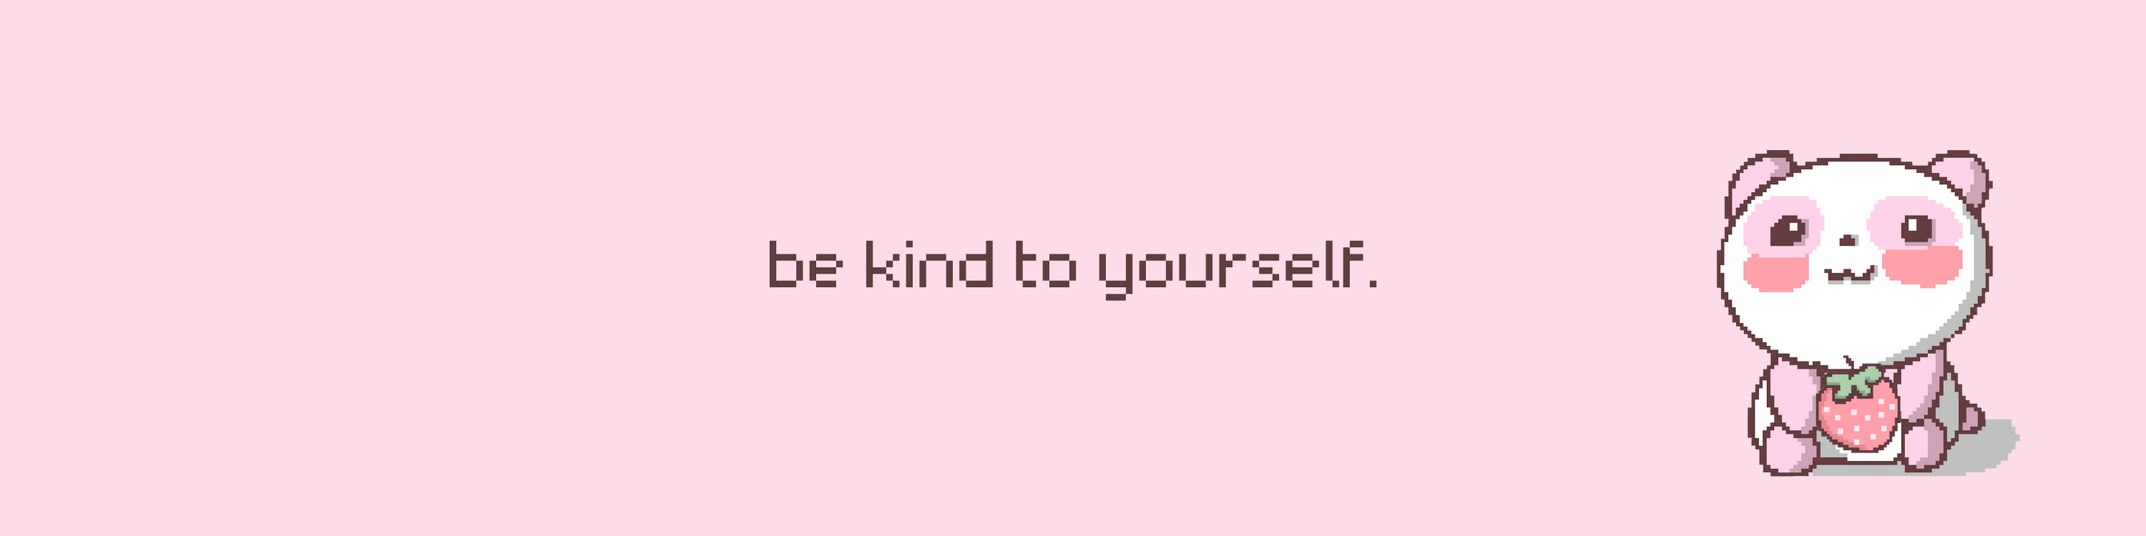
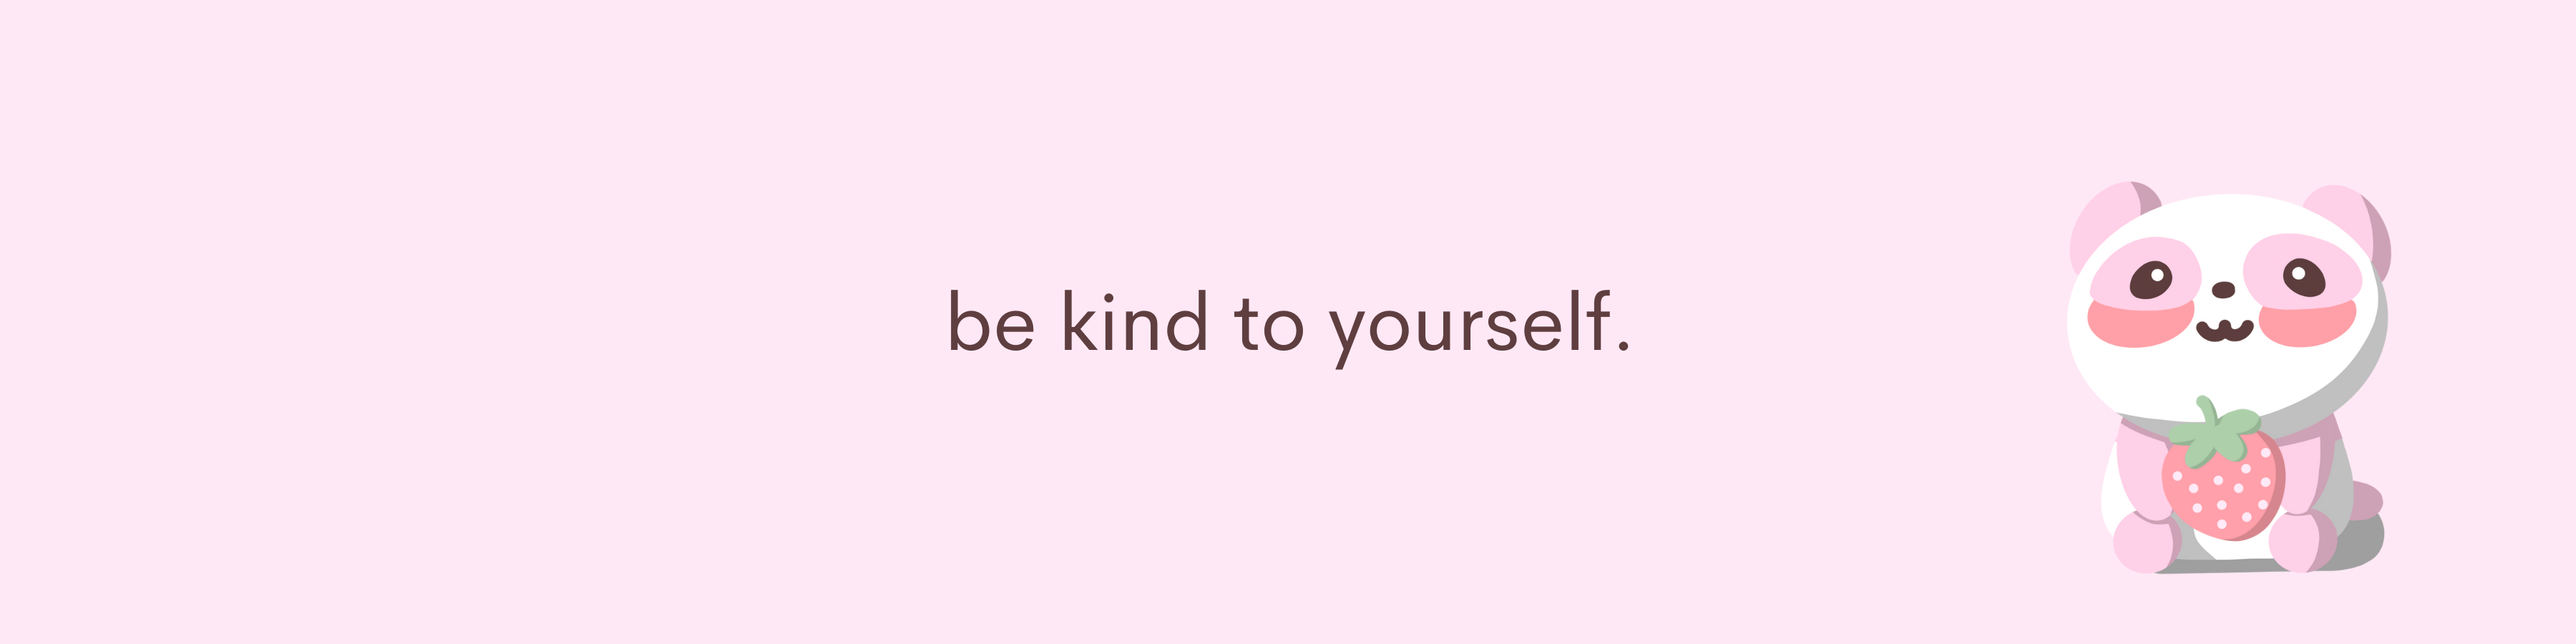
Reworking Design

Changed region(s): [[0.775, 0.276, 0.961, 0.8893], [0.341, 0.4293, 0.651, 0.5827]]

diff --git a/index.html b/index.html
@@ -13,6 +13,7 @@
     <link rel="stylesheet" href="https://cdnjs.cloudflare.com/ajax/libs/font-awesome/6.0.0/css/all.min.css"
         integrity="sha512-9usAa10IRO0HhonpyAIVpjrylPvoDwiPUiKdWk5t3PyolY1cOd4DSE0Ga+ri4AuTroPR5aQvXU9xC6qOPnzFeg=="
         crossorigin="anonymous" referrerpolicy="no-referrer" />
+    <link rel="stylesheet" href="stylesheet.css" type="text/css" charset="utf-8" />
     <meta name="msapplication-TileColor" content="#00aba9">
     <meta name="msapplication-config" content="assets/favicon/browserconfig.xml">
     <meta name="theme-color" content="#ffffff">
@@ -32,19 +33,21 @@
     <!-- this is the start of banner -->
 
     <div class="banner">
-        <div class="logo">
-            <a href="index.html"><img src="assets/strawbearilogo.png" alt="Strawberry Logo"> </a>
-        </div>
-        <div class="logo2">
-            <a href="index.html"><img src="assets/strawberryicon.png" alt="Strawberry Icon"> </a>
-        </div>
-
+        
         <picture>
             <source media="(min-width: 1000px)" srcset="assets/banner.png">
             <img src="assets/banner2.png" alt="Banner Small" />
         </picture>
 
     </div>
+    
+    <div class="logo">
+        <a href="index.html"><img src="assets/strawbearilogo.png" alt="Strawberry Logo"> </a>
+    </div>
+    <div class="logo2">
+        <a href="index.html"><img src="assets/strawberryicon.png" alt="Strawberry Icon"> </a>
+    </div>
+    
     <!-- this is the start of nav bar for mobile-->
     <div id="hiddennavbar">
         <a href="#" class="menubars" id="show-menu">
@@ -58,6 +61,7 @@
                 <a href="#" class="menubarshidden" id="hide-menu" onclick="hideMenu()">
                     <i class="fas fa-bars nav-icon"></i>
                 </a>
+                <img src="assets/strawbearilogo.png" alt="Strawberry Logo">
             </div>
             <div class="nav-section">
                 <a href="index.html"><i class="fa-solid fa-house nav-icon"></i>home</a>
@@ -72,7 +76,7 @@
     </nav>
 
     <!-- this is the start of nav bar -->
-    <nav class="nav_bar">
+    <!--<nav class="nav_bar">
         <a href="index.html"><span class="nav_sec">home</span></a>
         <span class="dropdown">
             <a href="aboutme.html"><span class="nav_sec" id="dropdown">about me &#x25BE;</span></a>
@@ -110,7 +114,7 @@
                 </a>
             </div>
         </span>
-    </nav>
+    </nav>!-->
 
 
     <div class="beginning">

diff --git a/style.css b/style.css
@@ -1,5 +1,18 @@
 @import url('https://fonts.googleapis.com/css2?family=Roboto+Mono:wght@300&display=swap');
 
+@font-face {
+    font-family: 'silkscreen_expandednormal';
+    src: url('slkscre-webfont.eot');
+    src: url('slkscre-webfont.eot?#iefix') format('embedded-opentype'),
+        url('slkscre-webfont.woff2') format('woff2'),
+        url('slkscre-webfont.woff') format('woff'),
+        url('slkscre-webfont.ttf') format('truetype'),
+        url('slkscre-webfont.svg#silkscreen_expandednormal') format('svg');
+    font-weight: normal;
+    font-style: normal;
+
+}
+
 /*--adjust typography defaults --*/
 html {
     font-family: 'Roboto Mono',
@@ -205,7 +218,7 @@ video {
         position: fixed;
         display: block;
         top: 3vh;
-        right: 3vh;
+        left: 3vh;
         height: 50px;
         width: auto;
     }
@@ -220,16 +233,16 @@ video {
 
     #navbar-toggle {
         position: relative;
-        display: flex;
-        justify-content: right;
-        align-items: center;
-
+        display: block;
+        text-align: right;
+        right: 15px;
     }
 
     .menubarshidden {
         font-size: 2rem;
         color: #5F3D3F;
-
+        right: 0;
+        justify-content: right;
     }
 
     #nav-menu {
@@ -241,7 +254,7 @@ video {
         position: fixed;
         margin-left: 68%;
         top: 0;
-        right: -300px;
+        right: 100vw;
         transition: 850ms;
     }
 
@@ -266,7 +279,7 @@ video {
 
     #nav-menu.active {
         position: fixed;
-        right: 0;
+        right: 70vw;
         transition: 350ms;
     }
 
@@ -373,8 +386,15 @@ video {
     flex-direction: column;
     align-items: center;
     justify-content: center;
+    text-align: center;
     padding-left: 15%;
     padding-right: 15%;
+}
+
+.beginning h1 {
+    font-family: 'silkscreen_expandednormal';
+    font-size: 3rem;
+    color: #5F3D3F;
 }
 
 /* about me page styling */
